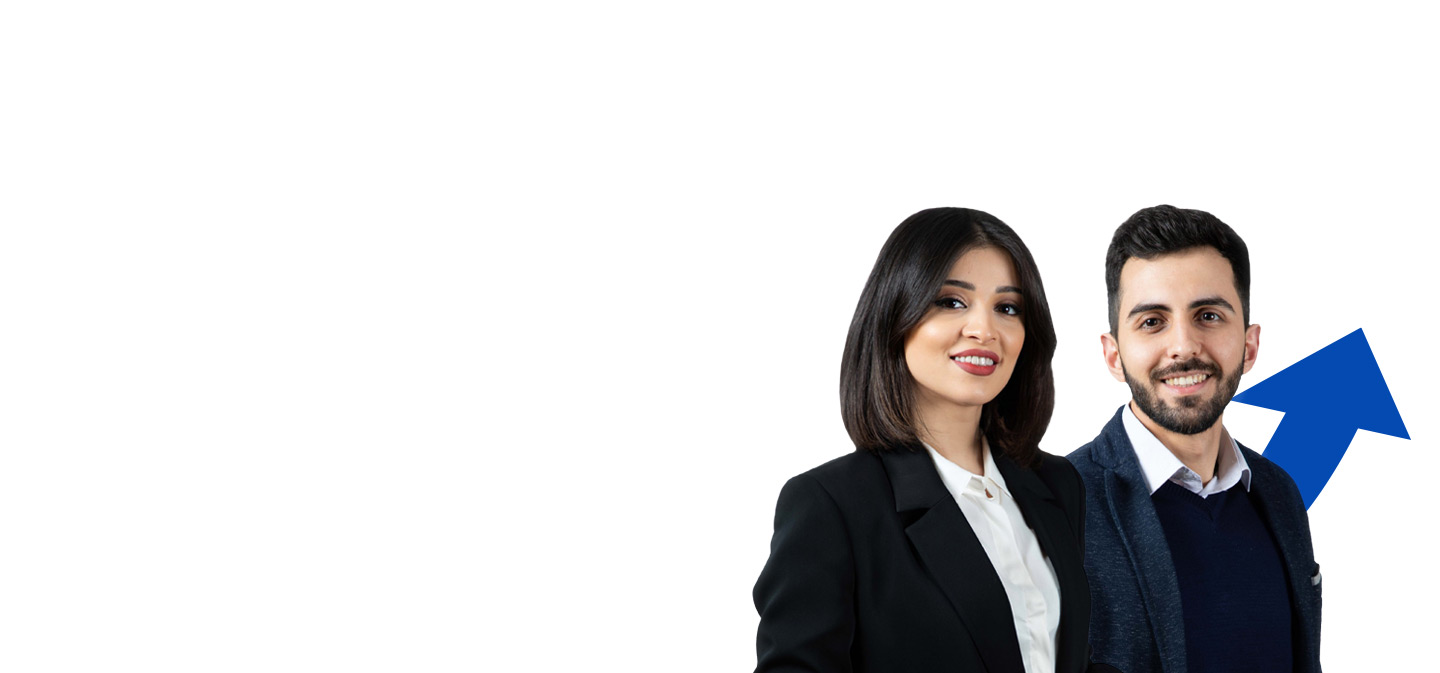
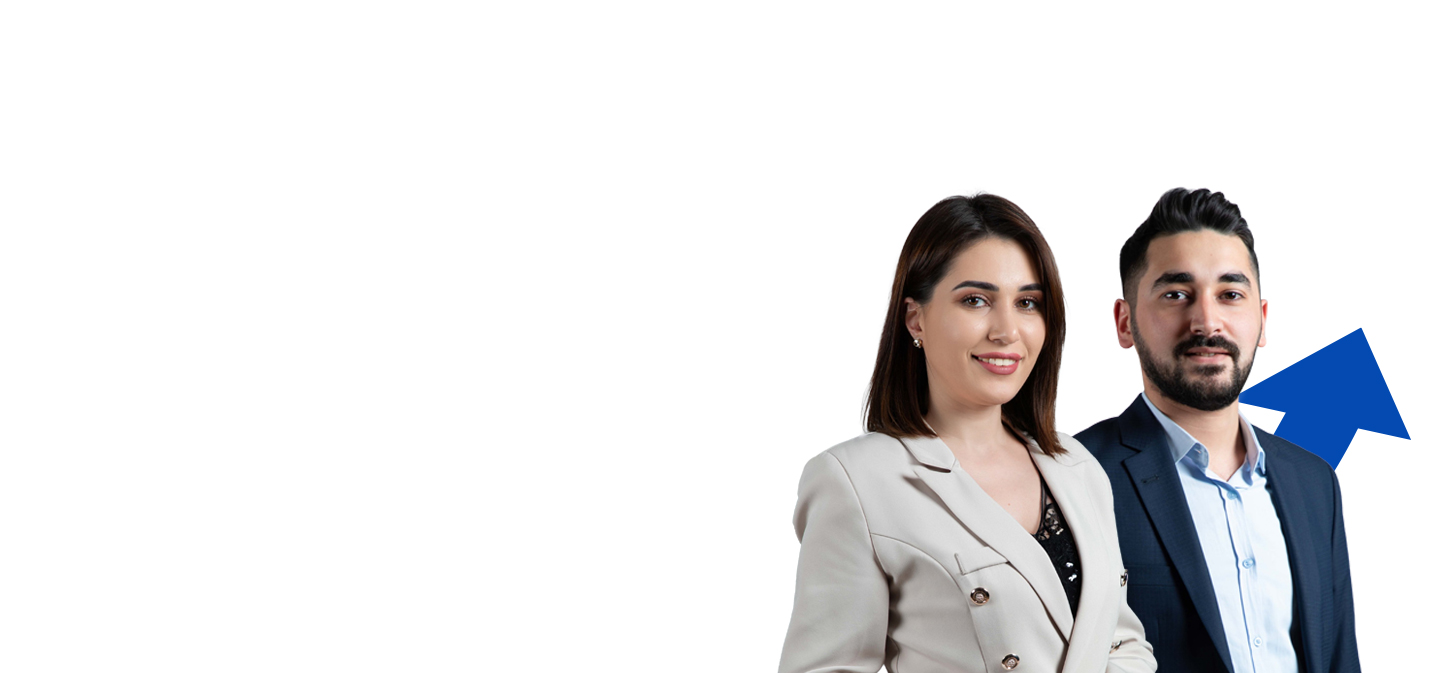
why us
why us

Changed region(s): [[0.5, 0.2808, 0.9688, 1.0]]

diff --git a/src/views/layout/app/header/header-mobile-menu/header-mobile-menu.tsx b/src/views/layout/app/header/header-mobile-menu/header-mobile-menu.tsx
@@ -81,7 +81,7 @@ export const HeaderMobileMenu = () => {
                             {menuItems.map((item, i) => {
                                 return item.route ? (
                                     <Link to={item.route} onClick={() => setOpen(false)} key={i}>
-                                        <Box sx={{ mb: 2 }}>
+                                        <Box sx={{ mb: 2, display: item.name === 'projects' ? 'none' : 'block' }}>
                                             <Typography
                                                 className="menu-item"
                                                 variant="h5"
@@ -98,7 +98,13 @@ export const HeaderMobileMenu = () => {
                                         </Box>
                                     </Link>
                                 ) : (
-                                    <>
+                                    <Box
+                                        key={i}
+                                        sx={{
+                                            // Hide projects button
+                                            display: item.name === 'projects' ? 'none' : 'block',
+                                        }}
+                                    >
                                         {item.name === 'trainings' && (
                                             <TrainingsMenu item={item} onClose={() => setOpen(false)} />
                                         )}
@@ -111,7 +117,7 @@ export const HeaderMobileMenu = () => {
                                         {item.name === 'projects' && (
                                             <ProjectsMenu item={item} onClose={() => setOpen(false)} />
                                         )}
-                                    </>
+                                    </Box>
                                 );
                             })}
                         </Box>

diff --git a/src/views/layout/app/header/header-menu/header-menu.tsx b/src/views/layout/app/header/header-menu/header-menu.tsx
@@ -51,6 +51,8 @@ export const HeaderMenu: React.FC = () => {
                                 key={i}
                                 sx={{
                                     px: { md: 1.5, lg: 2 },
+                                    // Hide projects button
+                                    display: item.name === 'projects' ? 'none' : 'flex',
                                 }}
                             >
                                 <Typography
@@ -66,12 +68,18 @@ export const HeaderMenu: React.FC = () => {
                             </MenuItem>
                         </Link>
                     ) : (
-                        <>
+                        <Box
+                            key={i}
+                            sx={{
+                                // Hide projects button
+                                display: item.name === 'projects' ? 'none' : 'block',
+                            }}
+                        >
                             {item.name === 'trainings' && <TrainingsMenu item={item} />}
                             {item.name === 'consulting' && <ConsultingMenu item={item} />}
                             {item.name === 'events' && <EventsMenu item={item} />}
                             {item.name === 'projects' && <ProjectsMenu item={item} />}
-                        </>
+                        </Box>
                     );
                 })}
             </Menu>
